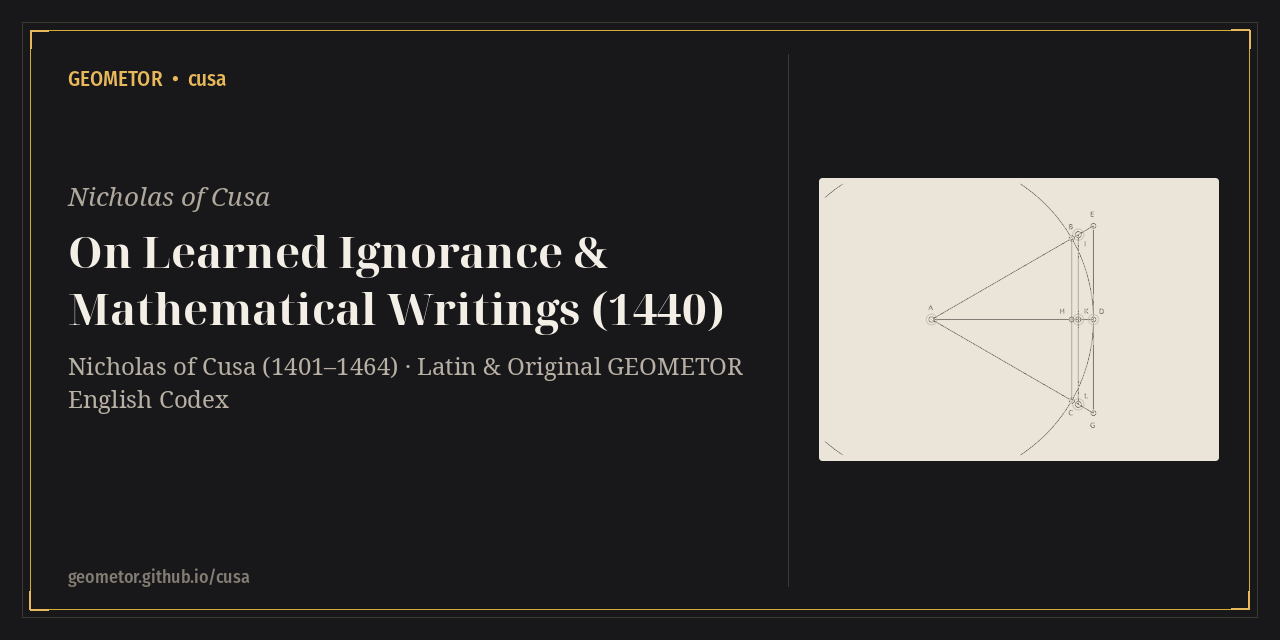
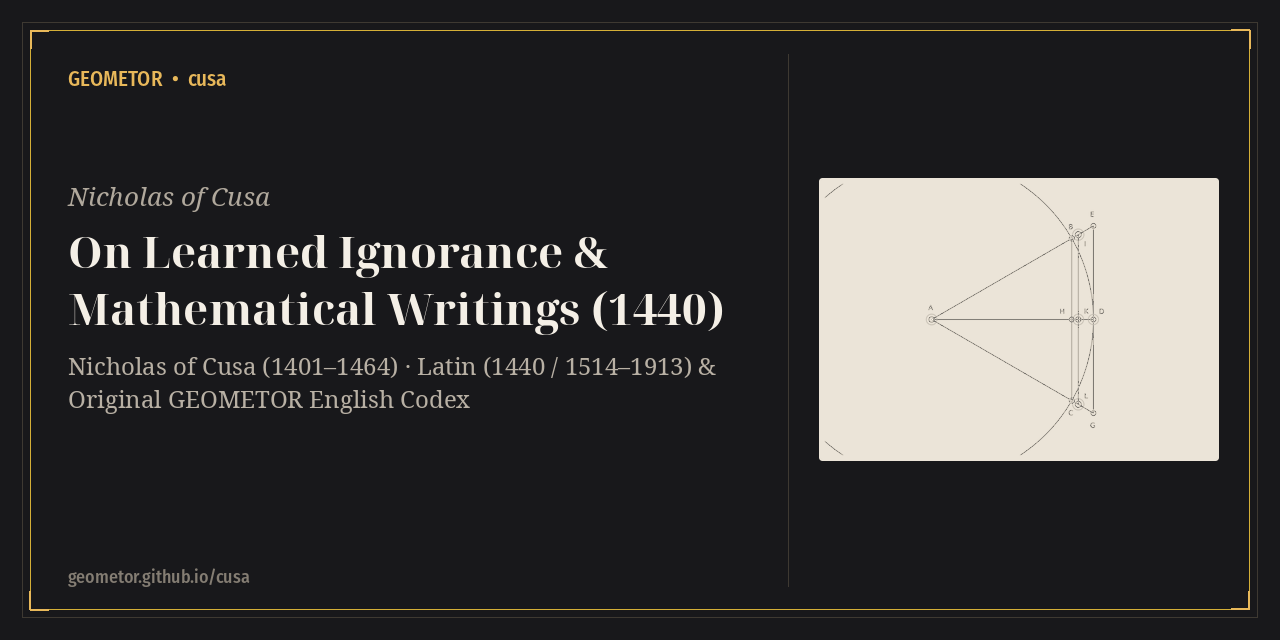
fix(cusa): elevate English titles, strip years from track/breadcrumb labels, and clean-rebuild docs

Changed region(s): [[0.0625, 0.5938, 0.375, 0.6562], [0.375, 0.5625, 0.5938, 0.5938]]

diff --git a/src/geometor/cusa/sphinx_ext.py b/src/geometor/cusa/sphinx_ext.py
@@ -8,7 +8,7 @@ from types import ModuleType
 from typing import Any
 
 _PATCHED_ATTR = "_geometor_cusa_la_patched"
-_LA_LABEL = "Latin (1440 / 1514–1913)"
+_LA_LABEL = "Latin"
 _LA_SUFFIX_ENTRY = (r"^(.+)[._-]la$", "la", _LA_LABEL)
 _LA_AUX_PATTERN = re.compile(r"^.+[._-]la$")
 
@@ -17,7 +17,7 @@ def register_latin_track(book_mod: ModuleType | object | None = None) -> bool:
     """Register and label the ``la`` companion track on ``photon_platform.publish.book``.
 
     Ensures that ``<slug>-la.rst`` tracks appear immediately after ``en`` with the
-    scholarly tab label ``"Latin (1440 / 1514–1913)"``.
+    canonical tab label ``"Latin"``.
 
     Args:
         book_mod: Optional pre-imported ``photon_platform.publish.book`` module (or mock

diff --git a/tests/test_cusa.py b/tests/test_cusa.py
@@ -285,7 +285,7 @@ def test_sphinx_ext_latin_track_registration() -> None:
     env = SimpleNamespace(found_docs={"u/u-en", "u/u-la", "u/u-summary", "u/u-notes"})
     tracks = mock_book.detect_companion_tracks(env, "u/u-la")
     assert [t["key"] for t in tracks] == ["en", "la", "summary", "notes"]
-    assert tracks[1]["label"] == "Latin (1440 / 1514–1913)"
+    assert tracks[1]["label"] == "Latin"
     assert tracks[1]["active"] is True
 
 

diff --git a/docsrc/de_docta_ignorantia/index.rst b/docsrc/de_docta_ignorantia/index.rst
@@ -4,7 +4,7 @@
 :layout: book
 :type: book
 :book_title: On Learned Ignorance & Mathematical Writings (1440)
-:book_subtitle: Nicholas of Cusa (1401–1464) · Latin & Original GEOMETOR English Codex
+:book_subtitle: Nicholas of Cusa (1401–1464) · Latin (1440 / 1514–1913) & Original GEOMETOR English Codex
 :author: Nicholas of Cusa
 :year: 1440
 :book_theme: classical-serif
@@ -28,7 +28,7 @@ On Learned Ignorance & Mathematical Writings (1440)
 
 **De Docta Ignorantia** presents in a critical Digital Scriptorium edition the complete geometric, epistemological, and cosmological core of :person:`Nicholas of Cusa's <cusanus>` *De Docta Ignorantia* (completed at Kues on **February 12, 1440**).
 
-Every chapter is presented across **four synchronized tracks**—**English** (a freshly authored, 100% original GEOMETOR translation rendered directly from the Latin), **Latin** (collated from :person:`Paolo Rotta's <klibansky>` 1913 edition with :person:`Raymond Klibansky's <klibansky>` archival restorations and the 1514 Paris / 1565 Basel *Opera*), **Summary**, and **Critical Notes** (pairing interactive ``.euclid-graphic`` SVG constructions with historical reception across antiquity, the Middle Ages, the Renaissance, and modern geometry).
+Every chapter is presented across **four synchronized tracks**—**English** (a freshly authored, 100% original GEOMETOR translation rendered directly from the Latin), **Latin (1440 / 1514–1913)** (collated from :person:`Paolo Rotta's <klibansky>` 1913 edition with :person:`Raymond Klibansky's <klibansky>` archival restorations and the 1514 Paris / 1565 Basel *Opera*), **Summary**, and **Critical Notes** (pairing interactive ``.euclid-graphic`` SVG constructions with historical reception across antiquity, the Middle Ages, the Renaissance, and modern geometry).
 
 Books of the Treatise
 ---------------------

diff --git a/docsrc/de_docta_ignorantia/liber_i/cap_01_04/la.rst b/docsrc/de_docta_ignorantia/liber_i/cap_01_04/la.rst
@@ -1,17 +1,17 @@
 :order: 10
 :layout: book
 :type: la
-:title: Learned Ignorance, Polygon Exhaustion & the Coincidence of Maximum and Minimum — Latin
+:title: Learned Ignorance, Polygon Exhaustion & the Coincidence of Maximum and Minimum — Latin (1440 / 1514–1913)
 :canonical_id: DI I.1–4
 :original_id: DI I.1–4
 :folio: DI Ded., I.1–4, Ep. (1440)
-:tracks: English: index | Latin: la | Summary: summary | Notes: notes
+:tracks: English: index | Latin (1440 / 1514–1913): la | Summary: summary | Notes: notes
 
 .. _cap_01_04-la:
 .. _unit-1-maximum-ignorantia-la:
 
 =========================================================================================================
-Learned Ignorance, Polygon Exhaustion & the Coincidence of Maximum and Minimum — Latin
+Learned Ignorance, Polygon Exhaustion & the Coincidence of Maximum and Minimum — Latin (1440 / 1514–1913)
 =========================================================================================================
 
 .. rubric:: Textus Latinus Collatis Editionibus Parisiensi (1514), Basileensi (1565) et Rottae (1913) · DI Ded., I.1–4, Ep. (1440)

diff --git a/docsrc/de_mathematicis_complementis/aurea_propositio_1459/la.rst b/docsrc/de_mathematicis_complementis/aurea_propositio_1459/la.rst
@@ -1,16 +1,16 @@
 :order: 110
 :layout: book
 :type: la
-:title: Aurea Propositio in Mathematicis — Three-Ray Sum Invariance and the Golden Proposition — Latin
+:title: Aurea Propositio in Mathematicis — Three-Ray Sum Invariance and the Golden Proposition — Latin (1440 / 1514–1913)
 :canonical_id: APM (1459)
 :original_id: APM (1459)
 :folio: APM (1459)
-:tracks: English: index | Latin: la | Summary: summary | Notes: notes
+:tracks: English: index | Latin (1440 / 1514–1913): la | Summary: summary | Notes: notes
 
 .. _aurea_propositio_1459-la:
 
 =================================================================================================================
-Aurea Propositio in Mathematicis — Three-Ray Sum Invariance and the Golden Proposition — Latin
+Aurea Propositio in Mathematicis — Three-Ray Sum Invariance and the Golden Proposition — Latin (1440 / 1514–1913)
 =================================================================================================================
 
 .. rubric:: Textus Latinus Collatis Editionibus Parisiensi (1514), Basileensi (1565) et Rottae (1913) · APM (1459)

diff --git a/docsrc/de_mathematicis_complementis/transmutatio_1445/la.rst b/docsrc/de_mathematicis_complementis/transmutatio_1445/la.rst
@@ -1,16 +1,16 @@
 :order: 80
 :layout: book
 :type: la
-:title: De Geometricis Transmutationibus — Isoperimetric Extrema and the Sesquiquartal Radius — Latin
+:title: De Geometricis Transmutationibus — Isoperimetric Extrema and the Sesquiquartal Radius — Latin (1440 / 1514–1913)
 :canonical_id: DGT (1445)
 :original_id: DGT (1445)
 :folio: DGT (1445)
-:tracks: English: index | Latin: la | Summary: summary | Notes: notes
+:tracks: English: index | Latin (1440 / 1514–1913): la | Summary: summary | Notes: notes
 
 .. _transmutatio_1445-la:
 
 ================================================================================================================
-De Geometricis Transmutationibus — Isoperimetric Extrema and the Sesquiquartal Radius — Latin
+De Geometricis Transmutationibus — Isoperimetric Extrema and the Sesquiquartal Radius — Latin (1440 / 1514–1913)
 ================================================================================================================
 
 .. rubric:: Textus Latinus Collatis Editionibus Parisiensi (1514), Basileensi (1565) et Rottae (1913) · DGT (1445)

diff --git a/docsrc/de_docta_ignorantia/liber_i/cap_11_12/la.rst b/docsrc/de_docta_ignorantia/liber_i/cap_11_12/la.rst
@@ -1,17 +1,17 @@
 :order: 20
 :layout: book
 :type: la
-:title: Incorruptible Certitude & the Three-Step Method of Mathematical Transsumption — Latin
+:title: Incorruptible Certitude & the Three-Step Method of Mathematical Transsumption — Latin (1440 / 1514–1913)
 :canonical_id: DI I.11–12
 :original_id: DI I.11–12
 :folio: DI I.11–12 (1440)
-:tracks: English: index | Latin: la | Summary: summary | Notes: notes
+:tracks: English: index | Latin (1440 / 1514–1913): la | Summary: summary | Notes: notes
 
 .. _cap_11_12-la:
 .. _unit-2-mathematica-transsumptio-la:
 
 ========================================================================================================
-Incorruptible Certitude & the Three-Step Method of Mathematical Transsumption — Latin
+Incorruptible Certitude & the Three-Step Method of Mathematical Transsumption — Latin (1440 / 1514–1913)
 ========================================================================================================
 
 .. rubric:: Textus Latinus Collatis Editionibus Parisiensi (1514), Basileensi (1565) et Rottae (1913) · DI I.11–12 (1440)

diff --git a/docsrc/de_mathematicis_complementis/complementa_1453/la.rst b/docsrc/de_mathematicis_complementis/complementa_1453/la.rst
@@ -1,16 +1,16 @@
 :order: 90
 :layout: book
 :type: la
-:title: De Mathematicis Complementis — Inradius, Circumradius, and Archimedes' Spiral — Latin
+:title: De Mathematicis Complementis — Inradius, Circumradius, and Archimedes' Spiral — Latin (1440 / 1514–1913)
 :canonical_id: DMC (1453)
 :original_id: DMC (1453)
 :folio: DMC (1453)
-:tracks: English: index | Latin: la | Summary: summary | Notes: notes
+:tracks: English: index | Latin (1440 / 1514–1913): la | Summary: summary | Notes: notes
 
 .. _complementa_1453-la:
 
 ========================================================================================================
-De Mathematicis Complementis — Inradius, Circumradius, and Archimedes' Spiral — Latin
+De Mathematicis Complementis — Inradius, Circumradius, and Archimedes' Spiral — Latin (1440 / 1514–1913)
 ========================================================================================================
 
 .. rubric:: Textus Latinus Collatis Editionibus Parisiensi (1514), Basileensi (1565) et Rottae (1913) · DMC (1453)

diff --git a/docsrc/de_docta_ignorantia/liber_ii/cap_11_12/la.rst b/docsrc/de_docta_ignorantia/liber_ii/cap_11_12/la.rst
@@ -1,17 +1,17 @@
 :order: 70
 :layout: book
 :type: la
-:title: Centerless Cosmology, Kinematic Relativity & the Fabric of the World — Latin
+:title: Centerless Cosmology, Kinematic Relativity & the Fabric of the World — Latin (1440 / 1514–1913)
 :canonical_id: DI II.11–12
 :original_id: DI II.11–12
 :folio: DI II.11–12 (1440)
-:tracks: English: index | Latin: la | Summary: summary | Notes: notes
+:tracks: English: index | Latin (1440 / 1514–1913): la | Summary: summary | Notes: notes
 
 .. _cap_11_12-la:
 .. _unit-5-cosmologia-complementa-la:
 
 ===============================================================================================
-Centerless Cosmology, Kinematic Relativity & the Fabric of the World — Latin
+Centerless Cosmology, Kinematic Relativity & the Fabric of the World — Latin (1440 / 1514–1913)
 ===============================================================================================
 
 .. rubric:: Textus Latinus Collatis Editionibus Parisiensi (1514), Basileensi (1565) et Rottae (1913) · DI II.11–12 (1440)

diff --git a/docsrc/de_docta_ignorantia/liber_i/cap_18_20/la.rst b/docsrc/de_docta_ignorantia/liber_i/cap_18_20/la.rst
@@ -1,16 +1,16 @@
 :order: 50
 :layout: book
 :type: la
-:title: Transsumption of the Triangle: Divine Triunity & Exclusion of Quaternity — Latin
+:title: Transsumption of the Triangle: Divine Triunity & Exclusion of Quaternity — Latin (1440 / 1514–1913)
 :canonical_id: DI I.18–20
 :original_id: DI I.18–20
 :folio: DI I.18–20 (1440)
-:tracks: English: index | Latin: la | Summary: summary | Notes: notes
+:tracks: English: index | Latin (1440 / 1514–1913): la | Summary: summary | Notes: notes
 
 .. _cap_18_20-la:
 
 ===================================================================================================
-Transsumption of the Triangle: Divine Triunity & Exclusion of Quaternity — Latin
+Transsumption of the Triangle: Divine Triunity & Exclusion of Quaternity — Latin (1440 / 1514–1913)
 ===================================================================================================
 
 .. rubric:: Textus Latinus Collatis Editionibus Parisiensi (1514), Basileensi (1565) et Rottae (1913) · DI I.18–20 (1440)

diff --git a/docsrc/de_docta_ignorantia/liber_i/cap_13_15/la.rst b/docsrc/de_docta_ignorantia/liber_i/cap_13_15/la.rst
@@ -1,17 +1,17 @@
 :order: 30
 :layout: book
 :type: la
-:title: Coincidence of Infinite Circle, Straight Line, Triangle & Sphere — Latin
+:title: Coincidence of Infinite Circle, Straight Line, Triangle & Sphere — Latin (1440 / 1514–1913)
 :canonical_id: DI I.13–15
 :original_id: DI I.13–15
 :folio: DI I.13–15 (1440)
-:tracks: English: index | Latin: la | Summary: summary | Notes: notes
+:tracks: English: index | Latin (1440 / 1514–1913): la | Summary: summary | Notes: notes
 
 .. _cap_13_15-la:
 .. _unit-3-coincidentia-figurarum-la:
 
 ===========================================================================================
-Coincidence of Infinite Circle, Straight Line, Triangle & Sphere — Latin
+Coincidence of Infinite Circle, Straight Line, Triangle & Sphere — Latin (1440 / 1514–1913)
 ===========================================================================================
 
 .. rubric:: Textus Latinus Collatis Editionibus Parisiensi (1514), Basileensi (1565) et Rottae (1913) · DI I.13–15 (1440)

diff --git a/docsrc/de_mathematicis_complementis/perfectio_1458/la.rst b/docsrc/de_mathematicis_complementis/perfectio_1458/la.rst
@@ -1,16 +1,16 @@
 :order: 100
 :layout: book
 :type: la
-:title: De Mathematica Perfectione — Vanishing Sagitta and Intellectual Vision — Latin
+:title: De Mathematica Perfectione — Vanishing Sagitta and Intellectual Vision — Latin (1440 / 1514–1913)
 :canonical_id: DMP (1458)
 :original_id: DMP (1458)
 :folio: DMP (1458)
-:tracks: English: index | Latin: la | Summary: summary | Notes: notes
+:tracks: English: index | Latin (1440 / 1514–1913): la | Summary: summary | Notes: notes
 
 .. _perfectio_1458-la:
 
 =================================================================================================
-De Mathematica Perfectione — Vanishing Sagitta and Intellectual Vision — Latin
+De Mathematica Perfectione — Vanishing Sagitta and Intellectual Vision — Latin (1440 / 1514–1913)
 =================================================================================================
 
 .. rubric:: Textus Latinus Collatis Editionibus Parisiensi (1514), Basileensi (1565) et Rottae (1913) · DMP (1458)
